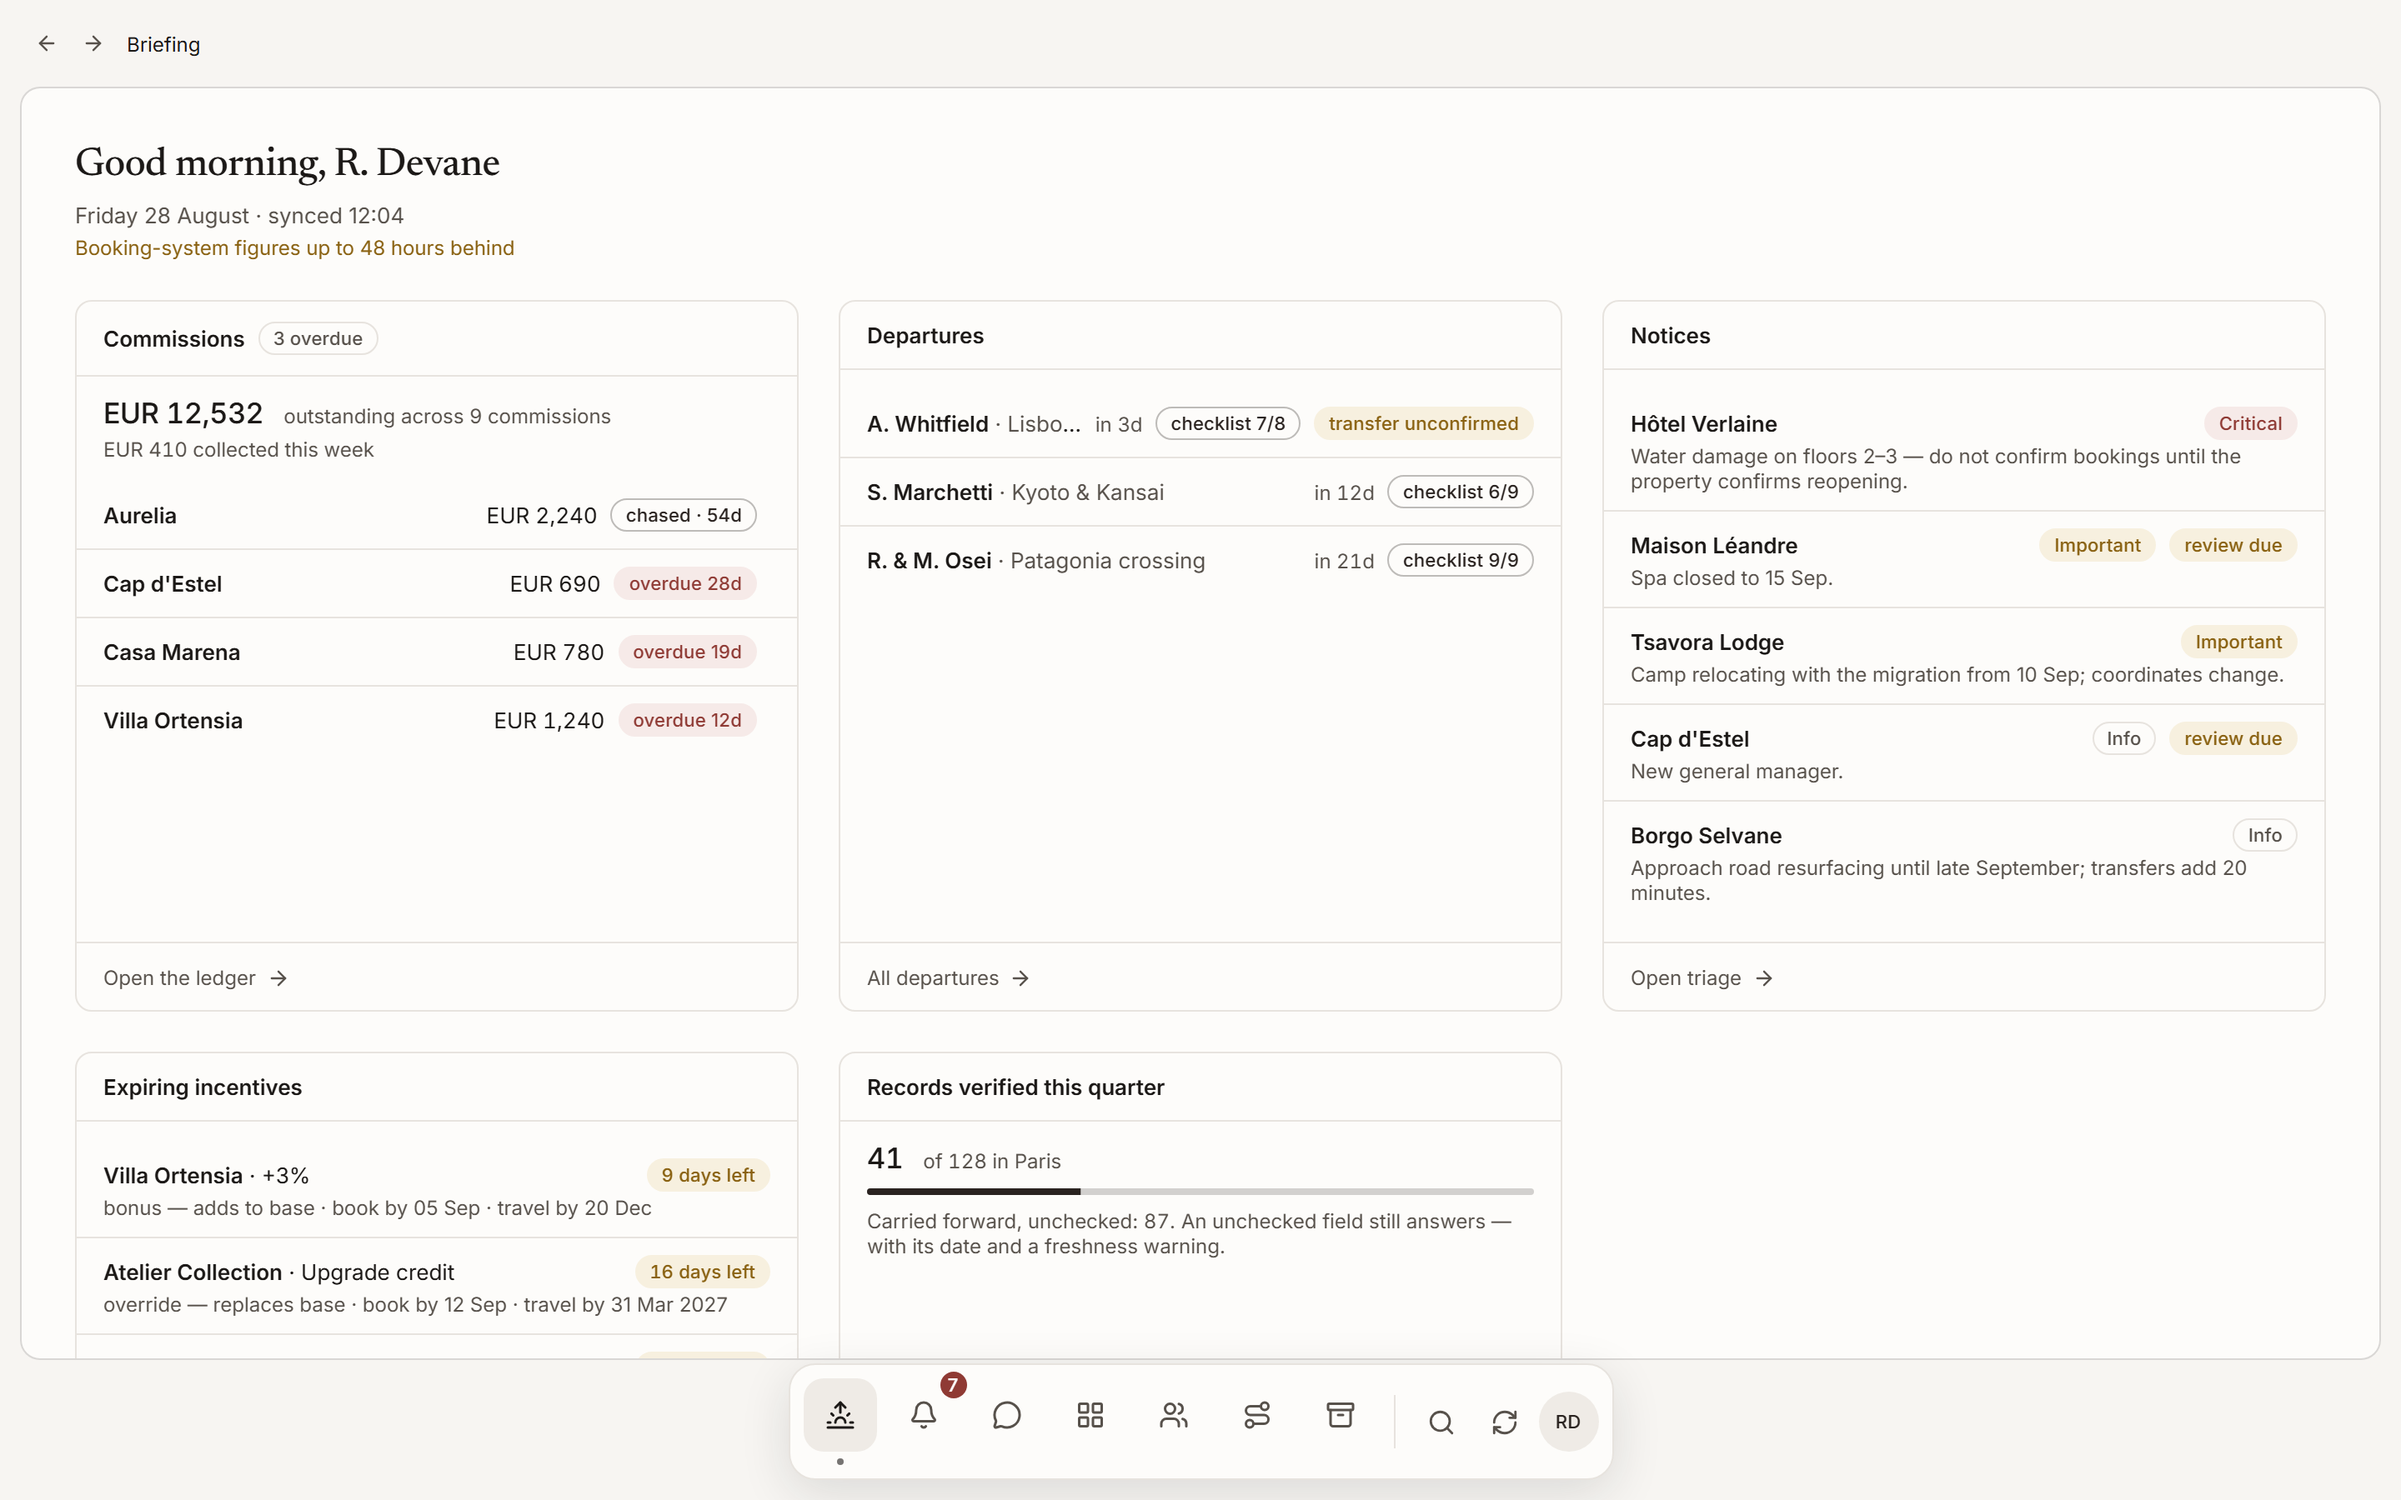
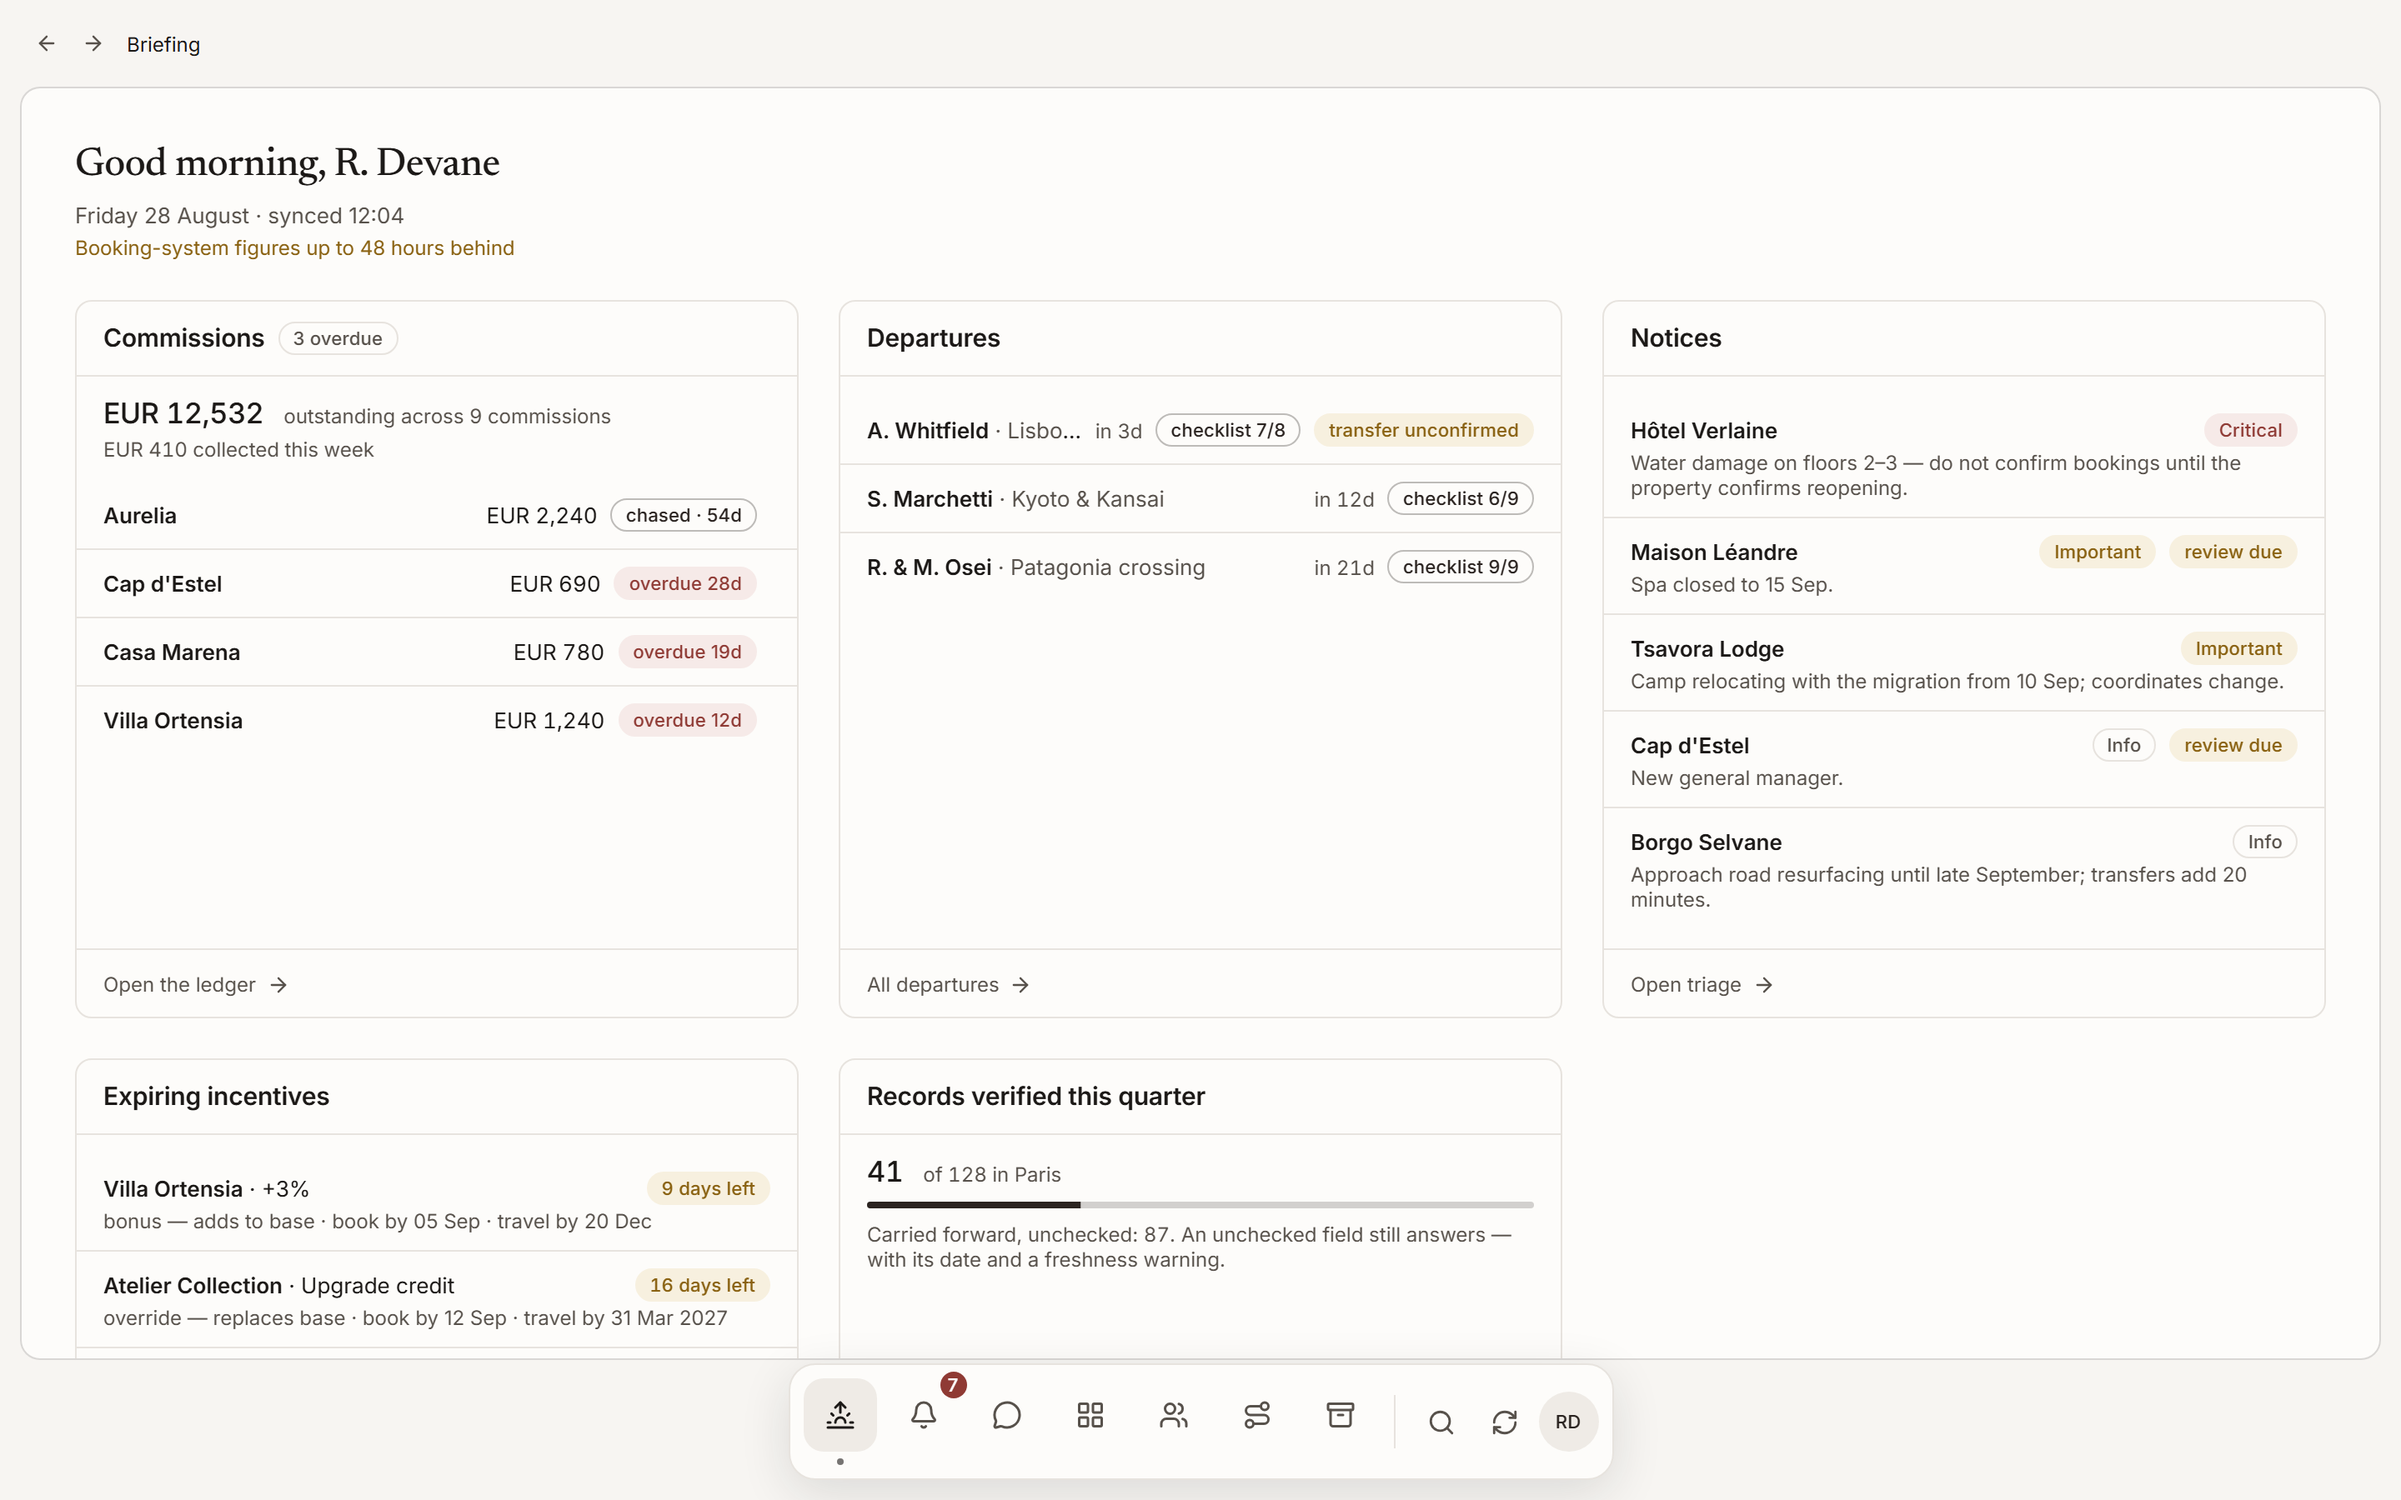
Give each surface its own slide
Slide 10 named five surfaces on a diagram and then showed only one of them, so
the claim that everything reads from one model was asserted rather than shown.

Ask, the briefing, the itinerary and the traveller now get a slide each, numbered
to match the diagram. One slide per surface rather than a gallery widget, because
then stepping through them is just the deck's own arrow keys — nothing to build,
and nothing that can fight the navigation.

Briefing and itinerary recaptured; they had not been refreshed since the record
rebuild.

diff --git a/index.html b/index.html
@@ -167,7 +167,32 @@
       </figure>
     </div>
   </div>
-  <div class="cap">Not answers — a place that absorbs rate sheets as PDFs, inventories as half-structured spreadsheets and terms buried in forwarded email, and returns one record per thing. On the right is a single record out of <b>4</b>, the directory. <b>The other four surfaces are what I am about to open.</b></div>
+  <div class="cap">Not answers — a place that absorbs rate sheets as PDFs, inventories as half-structured spreadsheets and terms buried in forwarded email, and returns one record per thing. On the right is a single record out of <b>4</b>, the directory. <b>The next four slides are the other surfaces, one each.</b></div>
+</section>
+
+<!-- the five surfaces, one per slide so the arrow keys walk them -->
+<section class="slide is-full" data-note="Surface 3. Say: this is the door people expect, and it is one of five rather than the product itself. Every line is cited to a record.">
+  <div class="head"><span class="step made">Surface 3</span><h3>Ask</h3></div>
+  <div class="art shot"><img src="assets/screens/02-v2-ask-spa.png" alt="Ask — one of the surfaces reading from the model."></div>
+  <div class="cap">A question, answered out of the model rather than the web. Every claim carries the record it came from, and the answer says how fresh it is.</div>
+</section>
+
+<section class="slide is-full" data-note="Surface 5. This is the one the agency lead asked for by name: something you sit down to first thing.">
+  <div class="head"><span class="step made">Surface 5</span><h3>The briefing</h3></div>
+  <div class="art shot"><img src="assets/screens/03-briefing.png" alt="The briefing — one of the surfaces reading from the model."></div>
+  <div class="cap">The morning screen. What changed overnight, what expires soon, and what is waiting on somebody — assembled from the same model, not a separate feed.</div>
+</section>
+
+<section class="slide is-full" data-note="Surface 6. The point is that nothing is re-keyed here — it reads the same record.">
+  <div class="head"><span class="step made">Surface 6</span><h3>The itinerary</h3></div>
+  <div class="art shot"><img src="assets/screens/16-itinerary.png" alt="The itinerary — one of the surfaces reading from the model."></div>
+  <div class="cap">The work in progress. Products pulled straight off the directory, so a rate on an itinerary is the same value the record holds, not a copy of it.</div>
+</section>
+
+<section class="slide is-full" data-note="Surface 7. Point at the suggestion row — labelled, never applied silently. Then move on; permissions come later.">
+  <div class="head"><span class="step made">Surface 7</span><h3>The traveller</h3></div>
+  <div class="art shot"><img src="assets/screens/15-traveller.png" alt="The traveller — one of the surfaces reading from the model."></div>
+  <div class="cap">Who the work is for. Preferences with a source and a date on each one, what the product suggests kept separate from what a person confirmed.</div>
 </section>
 
 <!-- 7 -->

diff --git a/speaker-notes.md b/speaker-notes.md
@@ -1,6 +1,6 @@
 # Enable — speaker notes
 
-Thirty-four slides. Roughly **six minutes** front, **twenty** live in the prototype,
+Thirty-eight slides. Roughly **six minutes** front, **twenty** live in the prototype,
 **twelve** back. The live section has its own script in `demo-script.md`.
 
 Press `N` on localhost to see the per-slide note on screen. This document is the
@@ -90,10 +90,30 @@ Ten seconds. Do not read the names.
 > On the right is one record out of the directory, running. Every field carries
 > where it came from and when."
 
-The record is live — you can scroll it. The other surfaces are what you open in
-the demo.
+The record is live — you can scroll it.
 
-### 11 · How we worked
+### 11–14 · The surfaces
+
+One slide each, so your arrow keys walk them. Ten to fifteen seconds apiece — this
+is a look at the shape of the product, not a tour. The numbers match the diagram on
+the previous slide.
+
+> **Ask** — "The door people expect. It answers out of the model rather than the web,
+> and every line is cited to a record it can name."
+>
+> **The briefing** — "The morning screen. What changed overnight, what expires soon,
+> what is waiting on somebody. This is the one the agency lead asked for by name."
+>
+> **The itinerary** — "The work in progress. Nothing here is re-keyed — a rate on an
+> itinerary is the same value the record holds, not a copy of it."
+>
+> **The traveller** — "Who the work is for. Every preference with a source and a
+> date, and what the product suggests kept visibly separate from what a person
+> confirmed."
+
+Then: "All four read from the same model. That is the whole idea."
+
+### 19 · How we worked
 
 This is the constraint that explains the whole method. Do not apologise for having
 no Figma files — this is the reason.
@@ -109,7 +129,7 @@ no Figma files — this is the reason.
 > workable. My job was to take what came out of those calls and shape it into
 > journeys that made sense to use."
 
-### 12 · What the calls produced
+### 16 · What the calls produced
 
 Read the first two aloud. Point at the third. Read the agency lead's line slowly —
 **that is the brief you were given, and you followed it.**
@@ -123,7 +143,7 @@ Read the first two aloud. Point at the third. Read the agency lead's line slowly
 >
 > So we built them somewhere to look."
 
-### 13–14 · The first build
+### 17–18 · The first build
 
 > "A conversational interface over the agency's own documents — Notion, Google
 > Drive, exports out of their intranet — and results as cards.
@@ -135,7 +155,7 @@ Read the first two aloud. Point at the third. Read the agency lead's line slowly
 > what was needed was the agency's own negotiated terms. The model was making too
 > many errors to be used."
 
-### 15 · Retrieval was never the problem
+### 19 · Retrieval was never the problem
 
 **The intellectual move of the project. Say the headline, then stop.**
 
@@ -150,7 +170,7 @@ Read the first two aloud. Point at the third. Read the agency lead's line slowly
 > So the data model came before any screen, and chat became one door among several
 > rather than the product."
 
-### 16 · Permission in the data model
+### 20 · Permission in the data model
 
 **This is the engineering argument, and it is what separates this from a RAG demo.**
 
@@ -170,7 +190,7 @@ Read the first two aloud. Point at the third. Read the agency lead's line slowly
 >
 > The sharing panel on the left is that model showing up on a screen."
 
-### 17–18 · What changed
+### 21–22 · What changed
 
 > **For the advisors** — "Client request to a personalised first proposal. Time
 > saved on daily administrative work. And the ratio that makes those hours
@@ -186,11 +206,11 @@ Read the first two aloud. Point at the third. Read the agency lead's line slowly
 are advisor-reported, which are the agency's own figures. See the open questions
 at the end of this file.
 
-### 19 · Handoff
+### 23 · Handoff
 
 > "Rather than describe it, let me use it."
 
-Switch windows. `demo-script.md` from here. Come back to slide 20.
+Switch windows. `demo-script.md` from here. Come back to slide 24.
 
 ---
 
@@ -206,13 +226,13 @@ Protect J2. It is the longest and the most important.
 
 ## BACK — twelve minutes
 
-### 20 · The map
+### 24 · The map
 
 > "Three design challenges. Every one of them we got wrong first. Each runs the same
 > beats — the first attempt, what came back from the desk, and where we landed.
 > After the three there is one more thing, which is a mistake of mine nobody caught."
 
-### 21–24 · Challenge 1 — getting records right on the way in
+### 25–28 · Challenge 1 — getting records right on the way in
 
 > "First, how the work arrives. An advisor forwards a rate sheet into the vault, or
 > an administrator connects a portal, and the extractor proposes records off the
@@ -237,7 +257,7 @@ Protect J2. It is the longest and the most important.
 > copy. And when a document is silent, that is recorded as silence. An absent answer
 > is not a no."
 
-### 25–27 · Challenge 2 — showing a conflict instead of hiding it
+### 29–31 · Challenge 2 — showing a conflict instead of hiding it
 
 > "Three systems said three different things about one commission rate. So we built
 > a ranking rule to settle it automatically.
@@ -250,7 +270,7 @@ Protect J2. It is the longest and the most important.
 > date, and how many others agree with it. The choice is stored at the agency layer,
 > with the reason, so the same conflict is never re-litigated."
 
-### 28–29 · Challenge 3 — a workspace, not a website
+### 32–33 · Challenge 3 — a workspace, not a website
 
 > "We built the layout every comparable tool in this category uses — a left rail, and
 > the conflict on its own page. It worked.
@@ -267,7 +287,7 @@ Protect J2. It is the longest and the most important.
 > The cost was about seventy pixels of height, permanently, and a pattern rare
 > enough here that it only reads as considered if it behaves well."
 
-### 30–32 · What I got wrong
+### 34–36 · What I got wrong
 
 **Do not soften this. It is the strongest thing in the deck.**
 
@@ -280,11 +300,11 @@ Protect J2. It is the longest and the most important.
 > the model, or in a test, or it will be true on the day you write it and false a
 > month later."
 
-### 33 · Reflection
+### 37 · Reflection
 
 > "What I would challenge if I picked it up again."
 
-### 34 · Questions
+### 38 · Questions
 
 Stop talking. Ten minutes.
 
@@ -294,9 +314,9 @@ Stop talking. Ten minutes.
 
 1. **The metrics on 17 and 18.** Say the method for each figure or cut it. Any
    number you cannot source is worse than no number in front of these two.
-2. **"There is no authority"** on slide 26 has no source in the evidence pack. Either
+2. **"There is no authority"** on slide 30 has no source in the evidence pack. Either
    place it or drop the quotation marks and own it as your line.
-3. **The quotes on slide 12** are attributed by role because that is all the
+3. **The quotes on slide 16** are attributed by role because that is all the
    transcripts carry. If you know which advisor said which, name them.
 4. **Both repos are public.** The deck and the app.
 5. If you present from the deployed deck, the live record on slide 10 needs the app's
